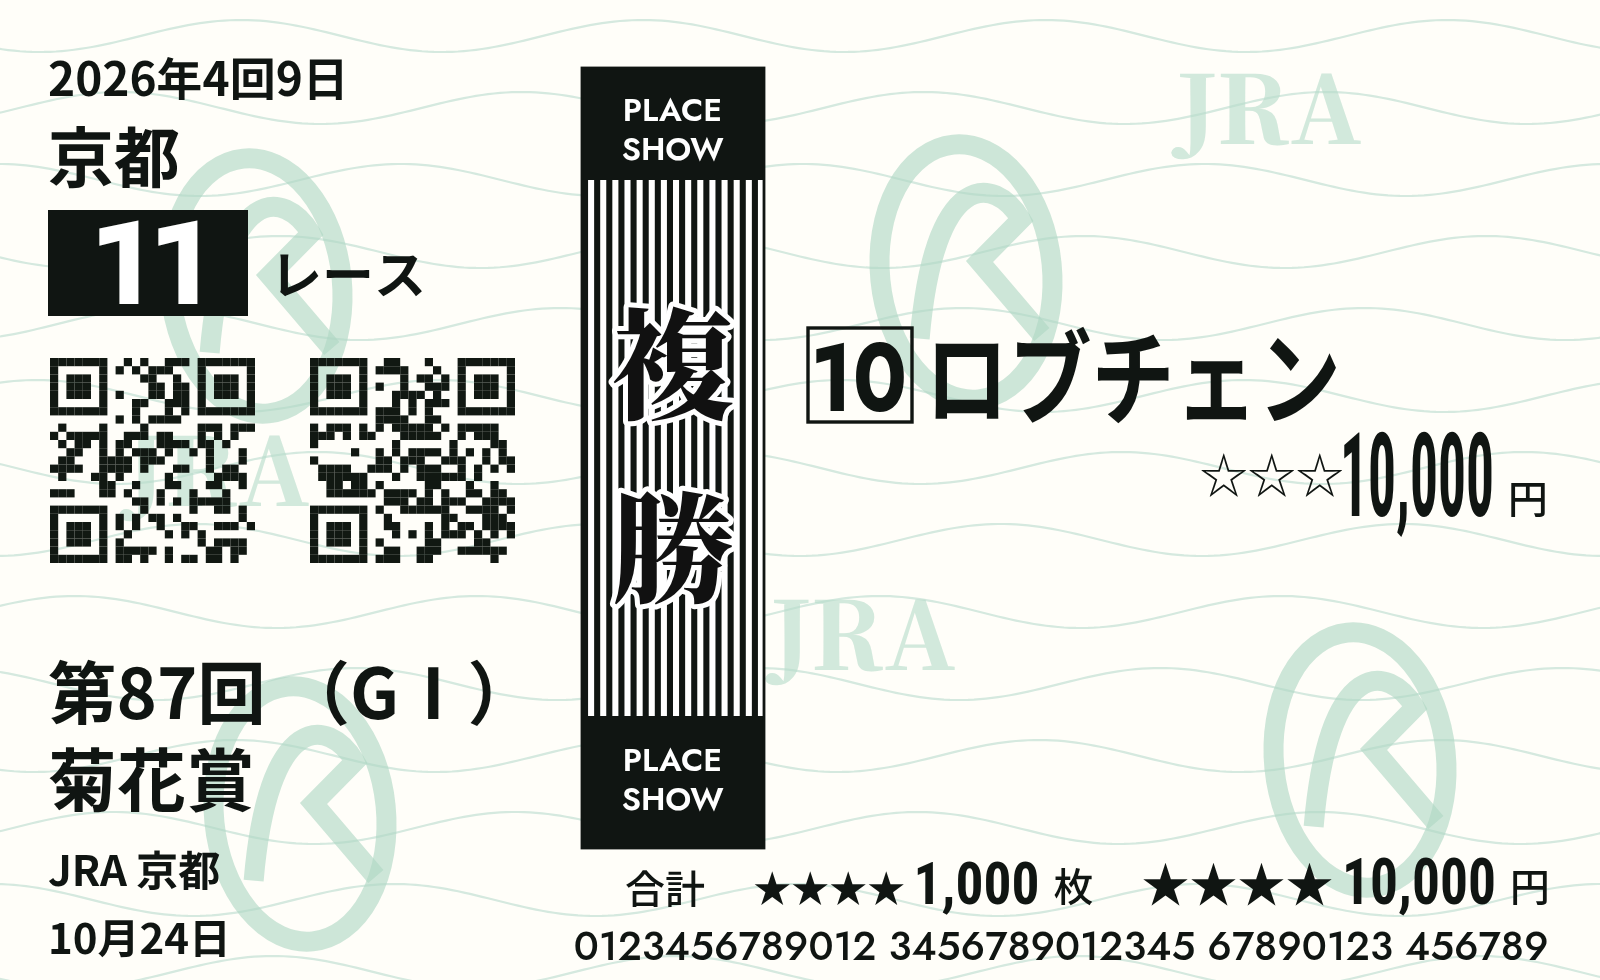
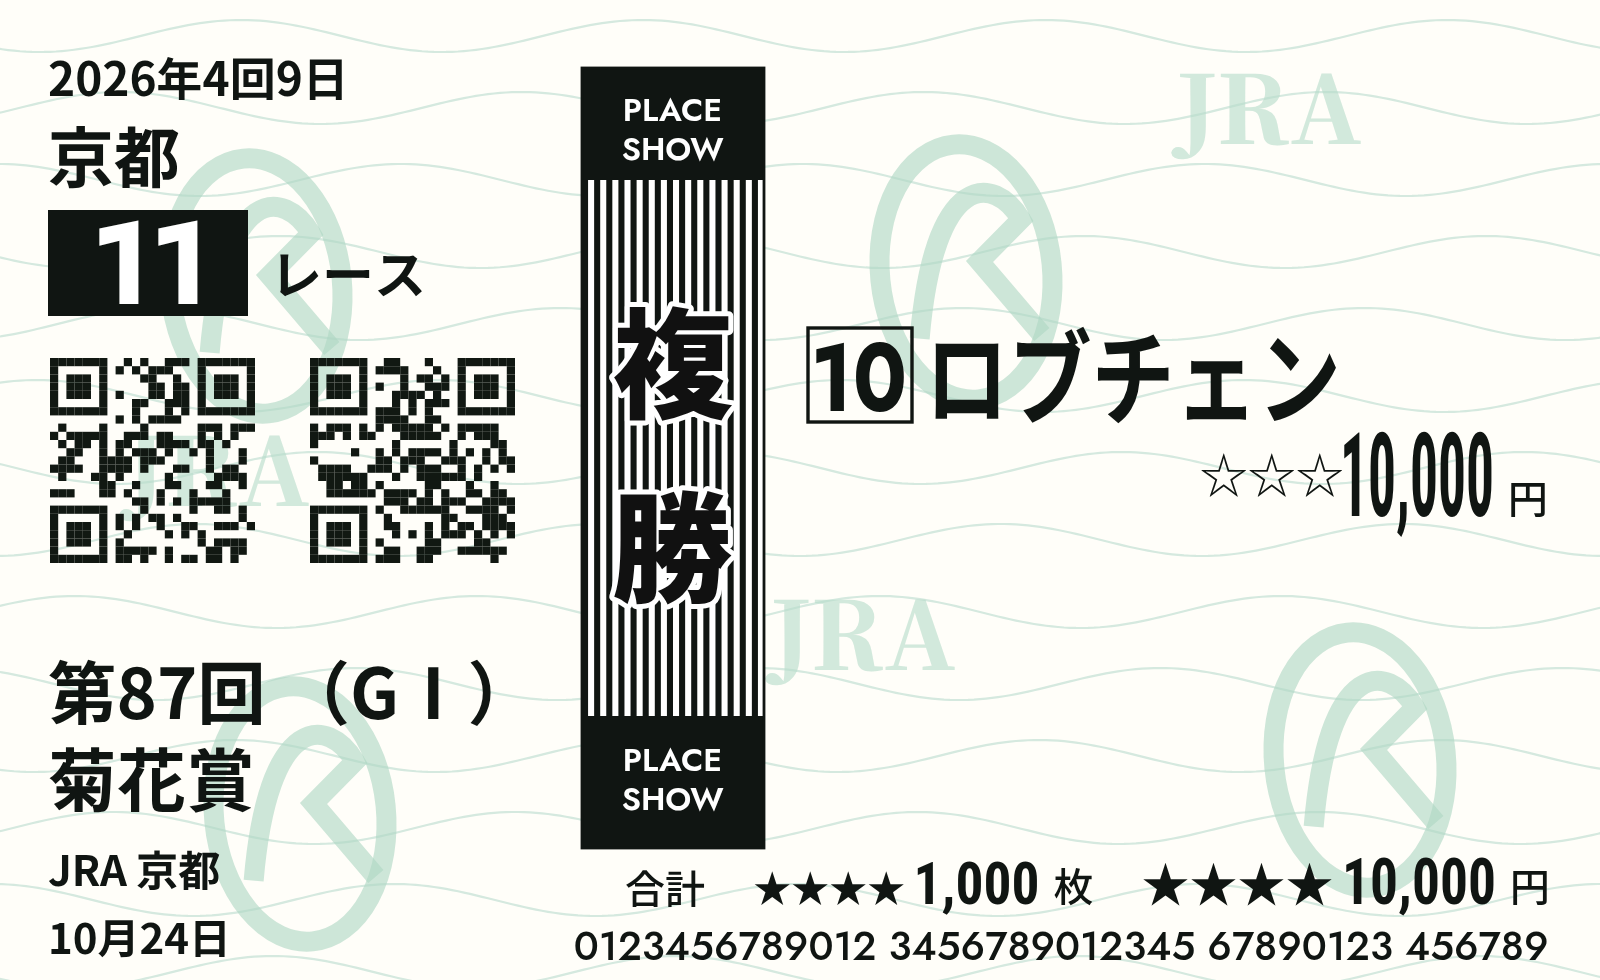
Align each label to amount baseline and use Gothic ticket types

Changed region(s): [[0.375, 0.4898, 0.4688, 0.6429], [0.375, 0.3061, 0.4688, 0.4286]]

diff --git a/fonts/LICENSES.html b/fonts/LICENSES.html
@@ -1,4 +1,4 @@
-<!doctype html><html lang="ja"><meta charset="utf-8"><title>フォント・ライセンス</title><style>body{font-family:sans-serif;max-width:850px;margin:50px auto;padding:20px;color:#243e30}pre{white-space:pre-wrap;font-size:12px;line-height:1.7}h2{margin-top:50px}a{color:#176948}</style><a href="../">← エディターへ</a><h1>フォント・ライセンス</h1><p>次のフォントをサイト内に同梱しています。いずれも SIL Open Font License 1.1 に従って利用・再配布しています。</p><p>WOFF2形式に変換しています。Dela Gothic Oneは「がんばれ！」用の「Baken DelaGothicOne」、Noto Serif JPは券種名・JRA印字用の「Baken NotoSerifJP」として改名・サブセット化しています。原書体の著作権表示とライセンス全文を以下に記載します。</p><h2>Jost</h2><pre>Copyright 2020 The Jost Project Authors (https://github.com/indestructible-type)
+<!doctype html><html lang="ja"><meta charset="utf-8"><title>フォント・ライセンス</title><style>body{font-family:sans-serif;max-width:850px;margin:50px auto;padding:20px;color:#243e30}pre{white-space:pre-wrap;font-size:12px;line-height:1.7}h2{margin-top:50px}a{color:#176948}</style><a href="../">← エディターへ</a><h1>フォント・ライセンス</h1><p>次のフォントをサイト内に同梱しています。いずれも SIL Open Font License 1.1 に従って利用・再配布しています。</p><p>WOFF2形式に変換しています。Dela Gothic Oneは「がんばれ！」用の「Baken DelaGothicOne」、Noto Serif JPはJRA透かし印字用の「Baken NotoSerifJP」として改名・サブセット化しています。原書体の著作権表示とライセンス全文を以下に記載します。</p><h2>Jost</h2><pre>Copyright 2020 The Jost Project Authors (https://github.com/indestructible-type)
 
 This Font Software is licensed under the SIL Open Font License, Version 1.1.
 This license is copied below, and is also available with a FAQ at:

diff --git a/app.js b/app.js
@@ -112,7 +112,7 @@
       const width=Math.min(starMaxWidth,m.actualBoundingBoxLeft+m.actualBoundingBoxRight);
       const centerX=label?starLeft+width/2:numberInkLeft-width/2;
       centeredText(stars,centerX,centerY,24,'number',500,width);
-      if(each)centeredText('各',centerX-width/2-14,centerY,24,'sans',500,24);
+      if(each)text('各',centerX-width/2-26,y,24,'sans',500,24);
     }else{
       text(stars,starLeft,y-1,24,'number',500,starMaxWidth);
       setFont(24,'number',500);const m=ctx.measureText(stars);
@@ -193,14 +193,14 @@
       for(let i=0;i<30;i++)if(i%2===0){blackBox(x+i*w/30,90,w/30,268);}
       blackBox(x,top,w,56);blackBox(x,358,w,66);
       for(const y of [48,373]){centeredText('PLACE',x+w/2,y+6,16,'number',600,w-8,'#fff');centeredText('SHOW',x+w/2,y+26,16,'number',600,w-8,'#fff');}
-      centeredText('複',x+w/2,182,60,'serif',900,72,'#111',true);centeredText('勝',x+w/2,274,60,'serif',900,72,'#111',true);
+      centeredText('複',x+w/2,182,60,'sans',900,72,'#111',true);centeredText('勝',x+w/2,274,60,'sans',900,72,'#111',true);
     }else if(type==='cheer'){
       centeredText('WIN',x+w/2,57,27,'number',500,w-12);
-      for(const [s,y] of [['単',112],['勝',169],['＋',223],['複',277],['勝',334]])centeredText(s,x+w/2,y,s==='＋'?35:48,'serif',900,75);
+      for(const [s,y] of [['単',112],['勝',169],['＋',223],['複',277],['勝',334]])centeredText(s,x+w/2,y,s==='＋'?35:48,'sans',900,75);
       blackBox(x,358,w,66);centeredText('PLACE',x+w/2,379,16,'number',600,w-8,'#fff');centeredText('SHOW',x+w/2,405,16,'number',600,w-8,'#fff');
     }else{
       centeredText('WIN',x+w/2,57,27,'number',500,w-12);
-      centeredText('単',x+w/2,181,64,'serif',900,78);centeredText('勝',x+w/2,277,64,'serif',900,78);
+      centeredText('単',x+w/2,181,64,'sans',900,78);centeredText('勝',x+w/2,277,64,'sans',900,78);
       centeredText('WIN',x+w/2,399,27,'number',500,w-12);
     }
     rect(x,top,w,bottom-top,1.4);

diff --git a/docs/VERIFICATION.md b/docs/VERIFICATION.md
@@ -107,3 +107,10 @@
 - 馬名直下の白抜き星の右端を、金額の最初の数字の字形左端に接する位置へ調整。上下中央揃えを維持。
 - 応援馬券だけ、馬名直下の白抜き星の左に「各」を表示し、単勝・複勝それぞれの同額であることを示す。
 - Chromiumで3券種・100円・10,000円・999,900円について、星と金額の間隔がゼロであること、上下中央揃え、「各」が応援だけに1か所表示されることを確認しPNG保存。
+
+## 各のベースラインと券種のゴシック体（2026-10-20）
+
+- 応援の「各」は金額の数字と同じベースラインに変更。白抜き星は引き続き数字に上下中央揃え。
+- 中央帯の単勝・複勝をNoto Sans JP 900のゴシック体に変更。小計ラベルの単勝・複勝、各、円、合計、枚もNoto Sans JPに統一。
+- PLACE/SHOWは同じJost 600・16pxで、横幅の拡大縮小はかかっていないことを確認し、自然な文字幅を維持。
+- Chromiumで3券種・100円・10,000円・999,900円の書体・ベースライン・英字の横倍率・白抜き星の中央揃えと金額への接触を確認しPNG保存。
